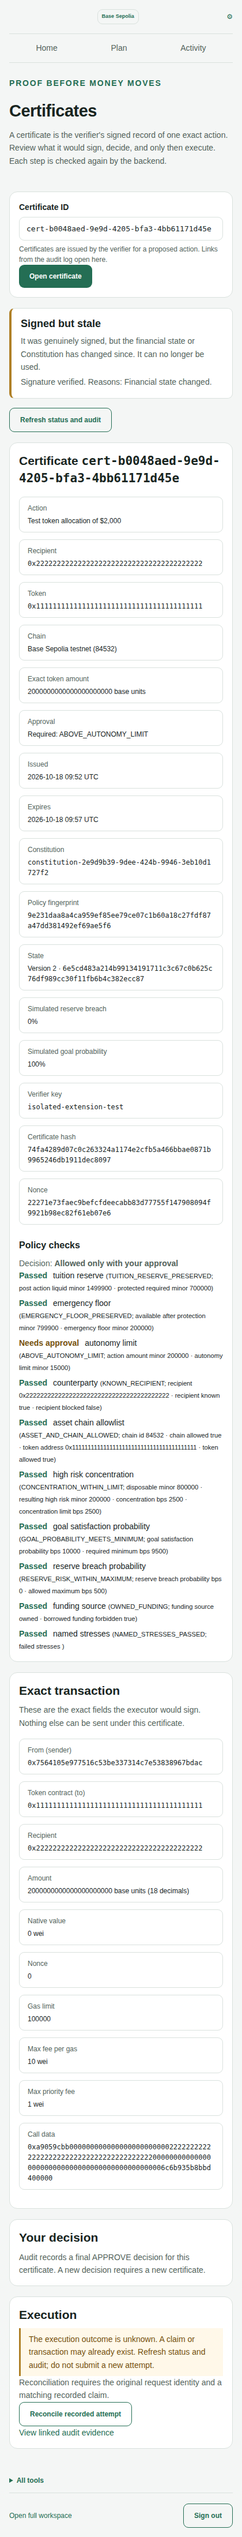
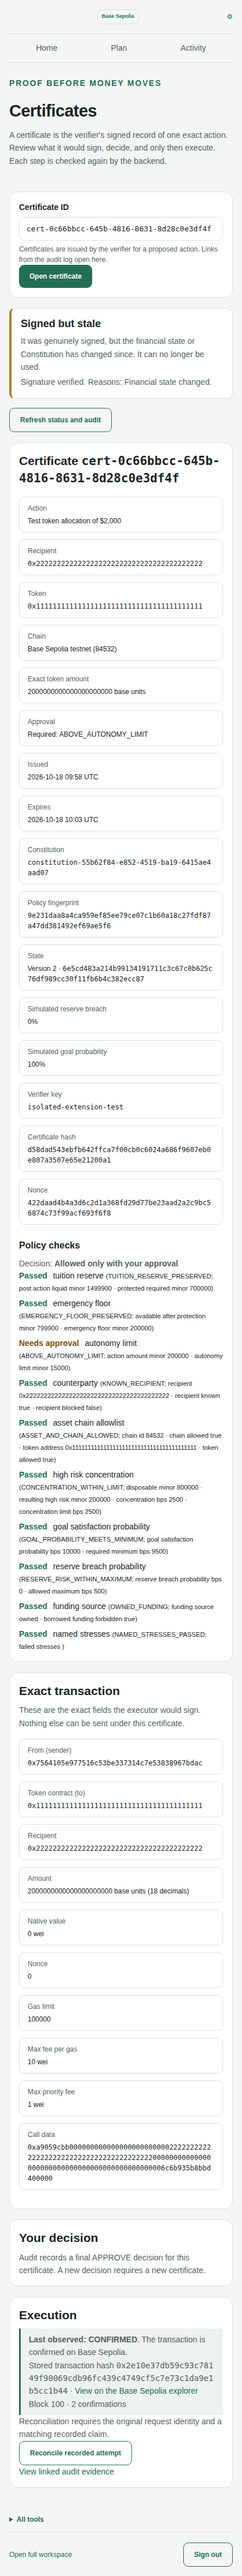
#111: verify loss, worker restart and exact reconciliation

Changed region(s): [[0.031, 0.0312, 0.8976, 0.9657], [0.7119, 0.0312, 0.7429, 0.0623]]

diff --git a/apps/extension/src/worker.ts b/apps/extension/src/worker.ts
@@ -1,4 +1,4 @@
-import {allowed,sensitive,deadline,trustedSender,journalFrom,BACKEND} from './policy.mjs';
+import {allowed,sensitive,deadline,trustedSender,journalFrom,bodyAllowed,BACKEND} from './policy.mjs';
 type Credential={session_token:string;csrf_token:string;expires_at:string};
 type Entry={path:string;body:string;state:'sending'|'observed'|'unknown'};
 type Reply={status:number;body:string};
@@ -7,10 +7,16 @@ let queue=Promise.resolve();
 const locks=new Set<string>();
 async function initialize(){await chrome.storage.session.setAccessLevel({accessLevel:'TRUSTED_CONTEXTS'});await chrome.storage.local.setAccessLevel({accessLevel:'TRUSTED_CONTEXTS'});}
 const initialized=initialize();
+async function boundedText(response:Response):Promise<string>{
+ const reader=response.body?.getReader();if(!reader)return '';
+ const decoder=new TextDecoder();let total=0,text='';
+ while(true){const chunk=await reader.read();if(chunk.done)break;total+=chunk.value.byteLength;if(total>2097152){await reader.cancel();throw new Error('Response bound exceeded');}text+=decoder.decode(chunk.value,{stream:true});}
+ return text+decoder.decode();
+}
 async function call(message:{method:string;path:string;body:string|null}):Promise<Reply>{
  await initialized;
  const {method,path}=message;
- if(!allowed(method,path)|| (message.body!==null&&typeof message.body!=='string') || (message.body?.length??0)>65536)return error(409,'Operation not allowed');
+ if(!allowed(method,path)|| !bodyAllowed(message.body))return error(409,'Operation not allowed');
  const auth=(await chrome.storage.session.get('credential')).credential as Credential|undefined;
  const login=path==='/auth/login';
  if(!login&&path!=='/health'&&(!auth||Date.parse(auth.expires_at)<=Date.now()))return error(401,'Sign in to the extension again.');
@@ -31,14 +37,14 @@ async function call(message:{method:string;path:string;body:string|null}):Promis
     const log=await fetch(BACKEND+'/audit',{headers,credentials:'omit',redirect:'error',signal:AbortSignal.timeout(10000)});
     if(!log.ok)return error(409,'Matching audit claim could not be checked.');
     const body=JSON.parse(old.body);
-    const events=await log.json();
+    const events=JSON.parse(await boundedText(log));
     if(!Array.isArray(events)||!events.some(e=>e.event_type==='EXECUTION_CLAIMED'&&e.details?.certificate_id===body.certificate_id&&e.details?.action_digest===body.action_digest))return error(409,'No matching recorded claim; do not resend blindly.');
    }
    journal[key]={path,body:message.body??'',state:'sending'};
    await chrome.storage.local.set({attempts:journal});
   }
   const response=await fetch(BACKEND+actual,{method,headers,body:method==='POST'?message.body??'{}':undefined,credentials:'omit',redirect:'error',signal:AbortSignal.timeout(deadline(path))});
-  const text=await response.text();
+  const text=await boundedText(response);
   if(text.length>2097152)throw new Error('Response bound exceeded');
   let publicBody=text;
   if(login&&response.ok){const credential=JSON.parse(text) as Credential;if(typeof credential.session_token!=='string'||typeof credential.csrf_token!=='string'||!Number.isFinite(Date.parse(credential.expires_at)))throw new Error('Invalid session');await chrome.storage.session.set({credential});publicBody=JSON.stringify({csrf_token:credential.csrf_token,expires_at:credential.expires_at});}

diff --git a/docs/PROGRESS.md b/docs/PROGRESS.md
@@ -1416,3 +1416,9 @@ Shared UI tokens and exact unit/canonical/candidate helpers extracted; system/li
 Manifest V3 popup/side panel, shared website financial screens, typed allowlisted service-worker transport, session-only credentials, durable operation journal and exact execution identity restoration are prepared. No extension ID is activated in a runtime .env. Build/lint and4 policy tests pass; npm audit reports0 vulnerabilities after Vite6.4.4 patch. An installed Chromium extension exercised real proposed auth,9 detailed pages, theme, real policy confirmation/optimizer/verifier/approval/execution with only disposable SQLite and public loopback chain fixtures; reopening retained the original execution identity. Windows Brave loaded the extension and verified hydrated login in both themes (startup/UI only). Public fixture evidence is in extension-integration.json and extension-test images.
 
 Two installed test failures were diagnosed before the passing run: Vite used the classic JSX runtime for shared website files, then a relative session import bypassed the worker. Explicit automatic JSX and the extension transport resolver fixed the causes; no tests/timeouts were relaxed. No new genuine testnet transfer or preserved financial data changed. Separate contract PR113 still needs lead review; full lifecycle/failure matrix and final combined validation remain release gates.
+
+## Release preparation #112
+Reproducible dist-only ZIP packager and local install/privacy/reviewer instructions prepared. Root npm run check now includes extension lint/build/unit checks when this workspace is present. Existing website check result:621 backend/97 browser; installed Chromium fixture recorded exactly one accepted send and one retained execution entry; Brave smoke passed startup/UI in both themes. Full lifecycle/failure matrix, final combined CI, lead authentication acceptance and public owner privacy/support listing details remain gates. No store submission or runtime extension enablement performed.
+
+### #111 installed lifecycle validation
+A deterministic test proxy discarded the original successful execute response and returned503 after the real isolated backend processed it. The UI reported uncertainty. CDP terminated the actual extension service worker; reopening restored the original persisted request, explicit matching-claim reconciliation reached CONFIRMED, and fixture statistics remained exactly one send/accepted transaction. Browser restart cleared chrome.storage.session authentication while preserving the exact execution identity. These are controlled public-fixture tests, not live receipts. Worker input/output bounds now count UTF8 bytes/streamed response bytes.5 policy tests pass. Evidence updated without credentials.
